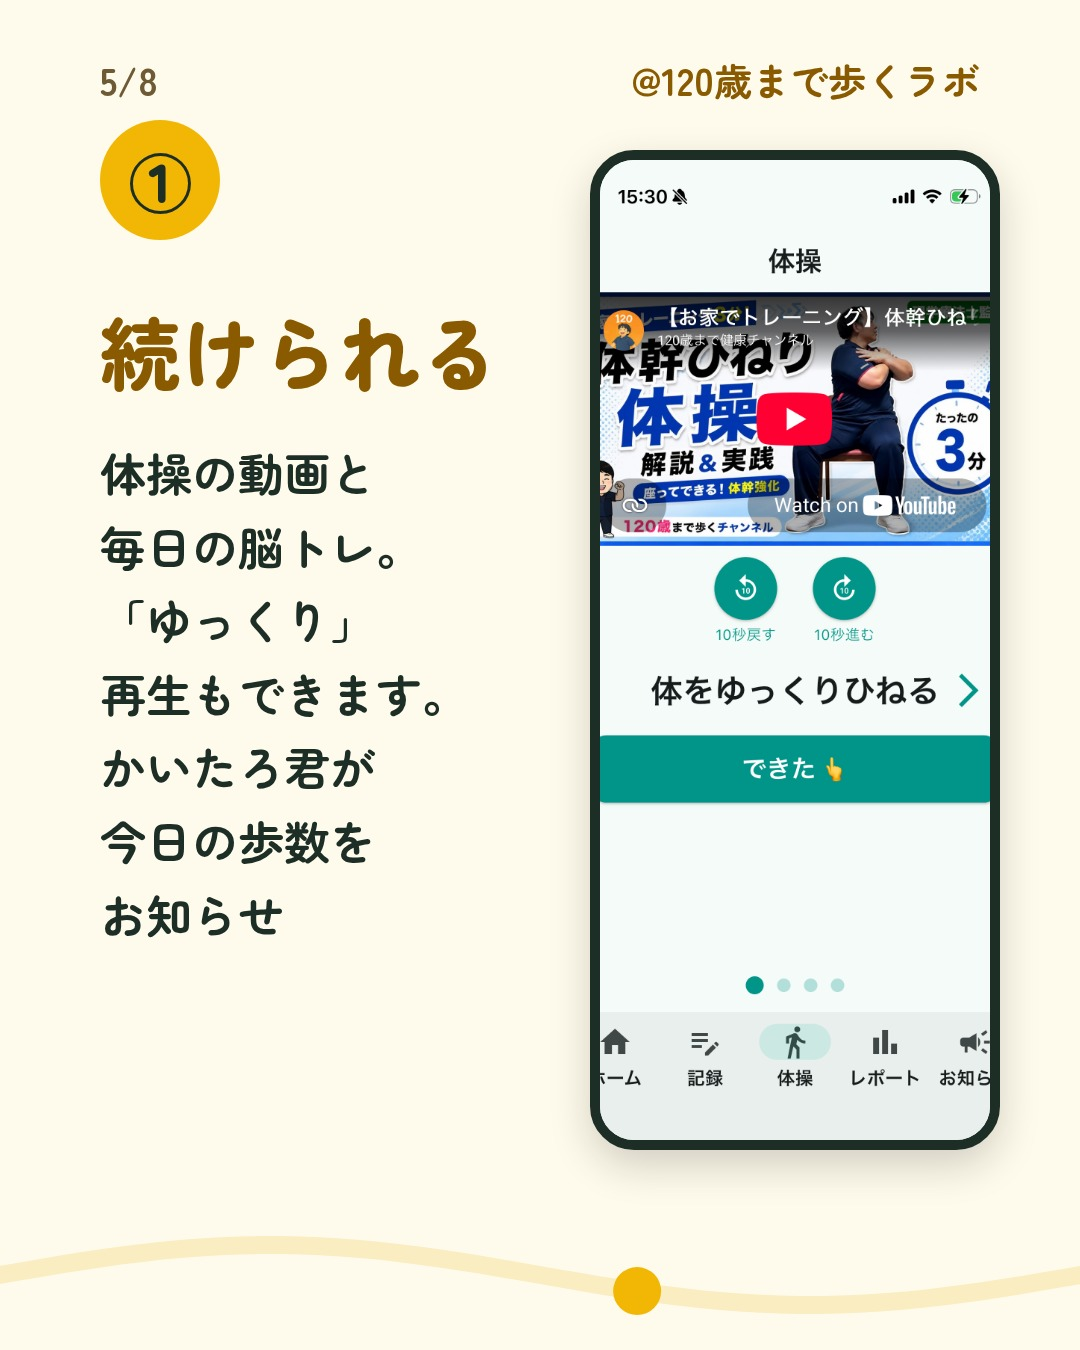
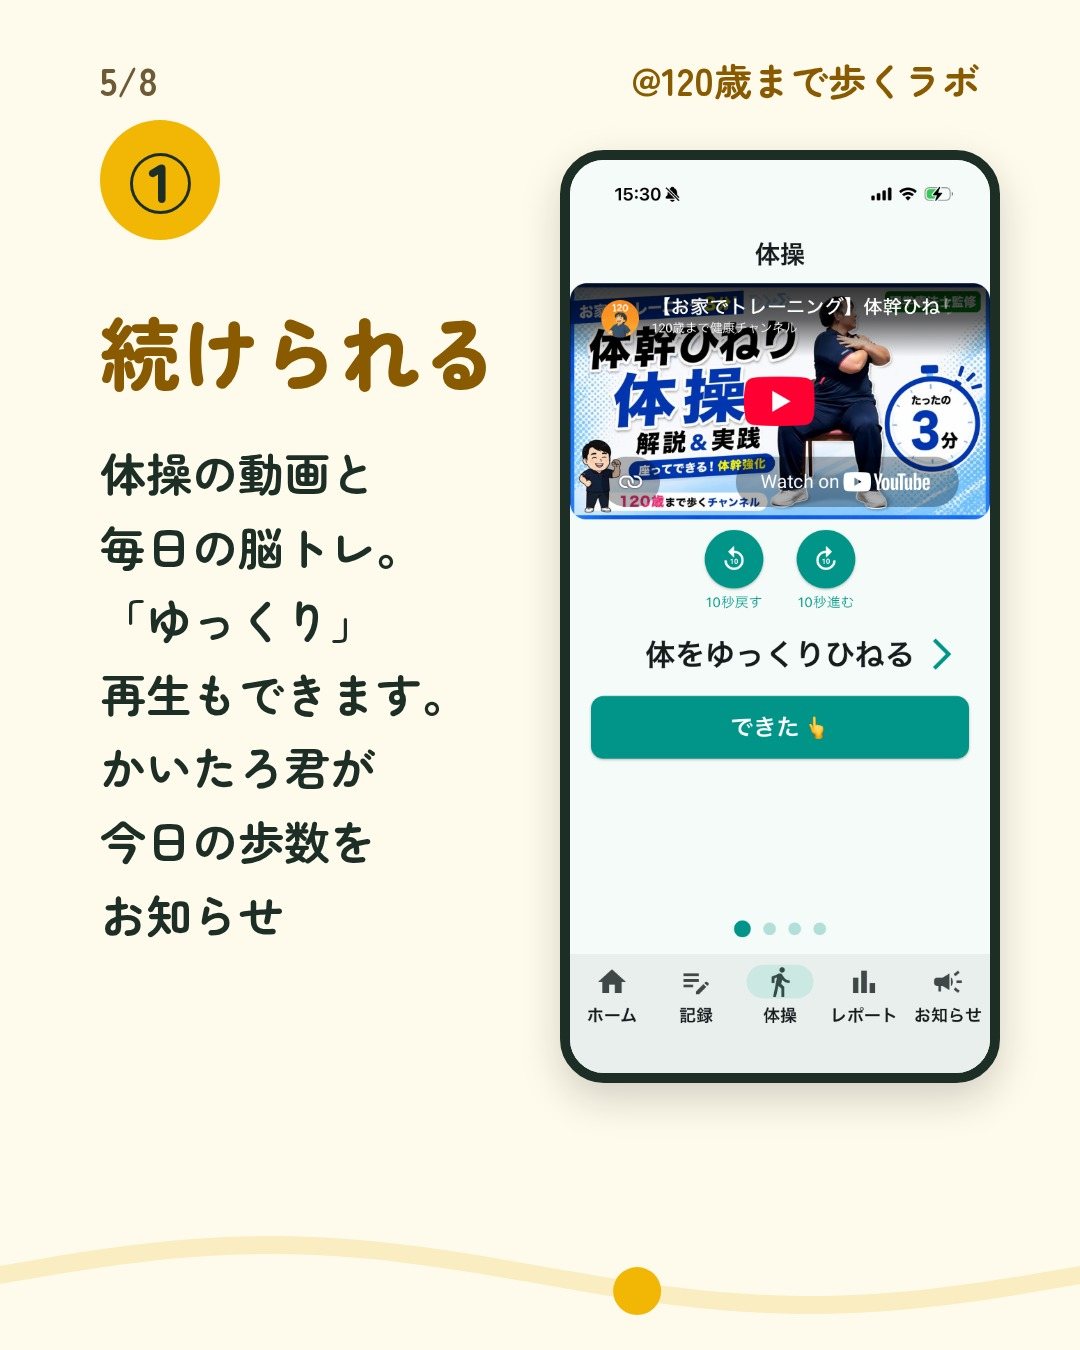
アプリ紹介：スマホの枠をスマホと同じ縦横比に。7枚目の利用者名のぼかしを外す
Claude-Session: https://claude.ai/code/session_014cmYBWpLfyA98YLrULG8gs

Changed region(s): [[0.5194, 0.0933, 0.9472, 0.8711], [0.7944, 0.1244, 0.9167, 0.1556]]

diff --git a/templates/carousel.html b/templates/carousel.html
@@ -61,11 +61,11 @@
   .point .photo img { width: 100%; height: 100%; object-fit: cover; display: block; }
   .point .photo.contain img { object-fit: contain; }
 
-  /* ポイント（スマホ画面）：imageLayout "phone" で、左に文・右に縦長の画面を大きく出す */
+  /* ポイント（スマホ画面）：imageLayout "phone" で、左に文・右にスマホの画面（縦横比はスマホと同じ 9:19.5 ほど）を大きく出す */
   .point.phone .fit { width: 520px; }
   .point.phone h2 { font-size: 80px; margin-bottom: 32px; }
   .point.phone p { font-size: 46px; line-height: 1.6; max-width: 520px; }
-  .point.phone .screen { position: absolute; right: 80px; top: 150px; bottom: 200px; width: 410px; border-radius: 44px; overflow: hidden; background: #fff; border: 10px solid var(--ink); box-shadow: 0 16px 40px rgba(0,0,0,0.18); }
+  .point.phone .screen { position: absolute; right: 80px; top: 150px; width: 440px; height: 933px; border-radius: 44px; overflow: hidden; background: #fff; border: 10px solid var(--ink); box-shadow: 0 16px 40px rgba(0,0,0,0.18); }
   .point.phone .screen img { width: 100%; height: 100%; object-fit: cover; object-position: top; display: block; }
   .point.phone .screen.contain img { object-fit: contain; }
 
